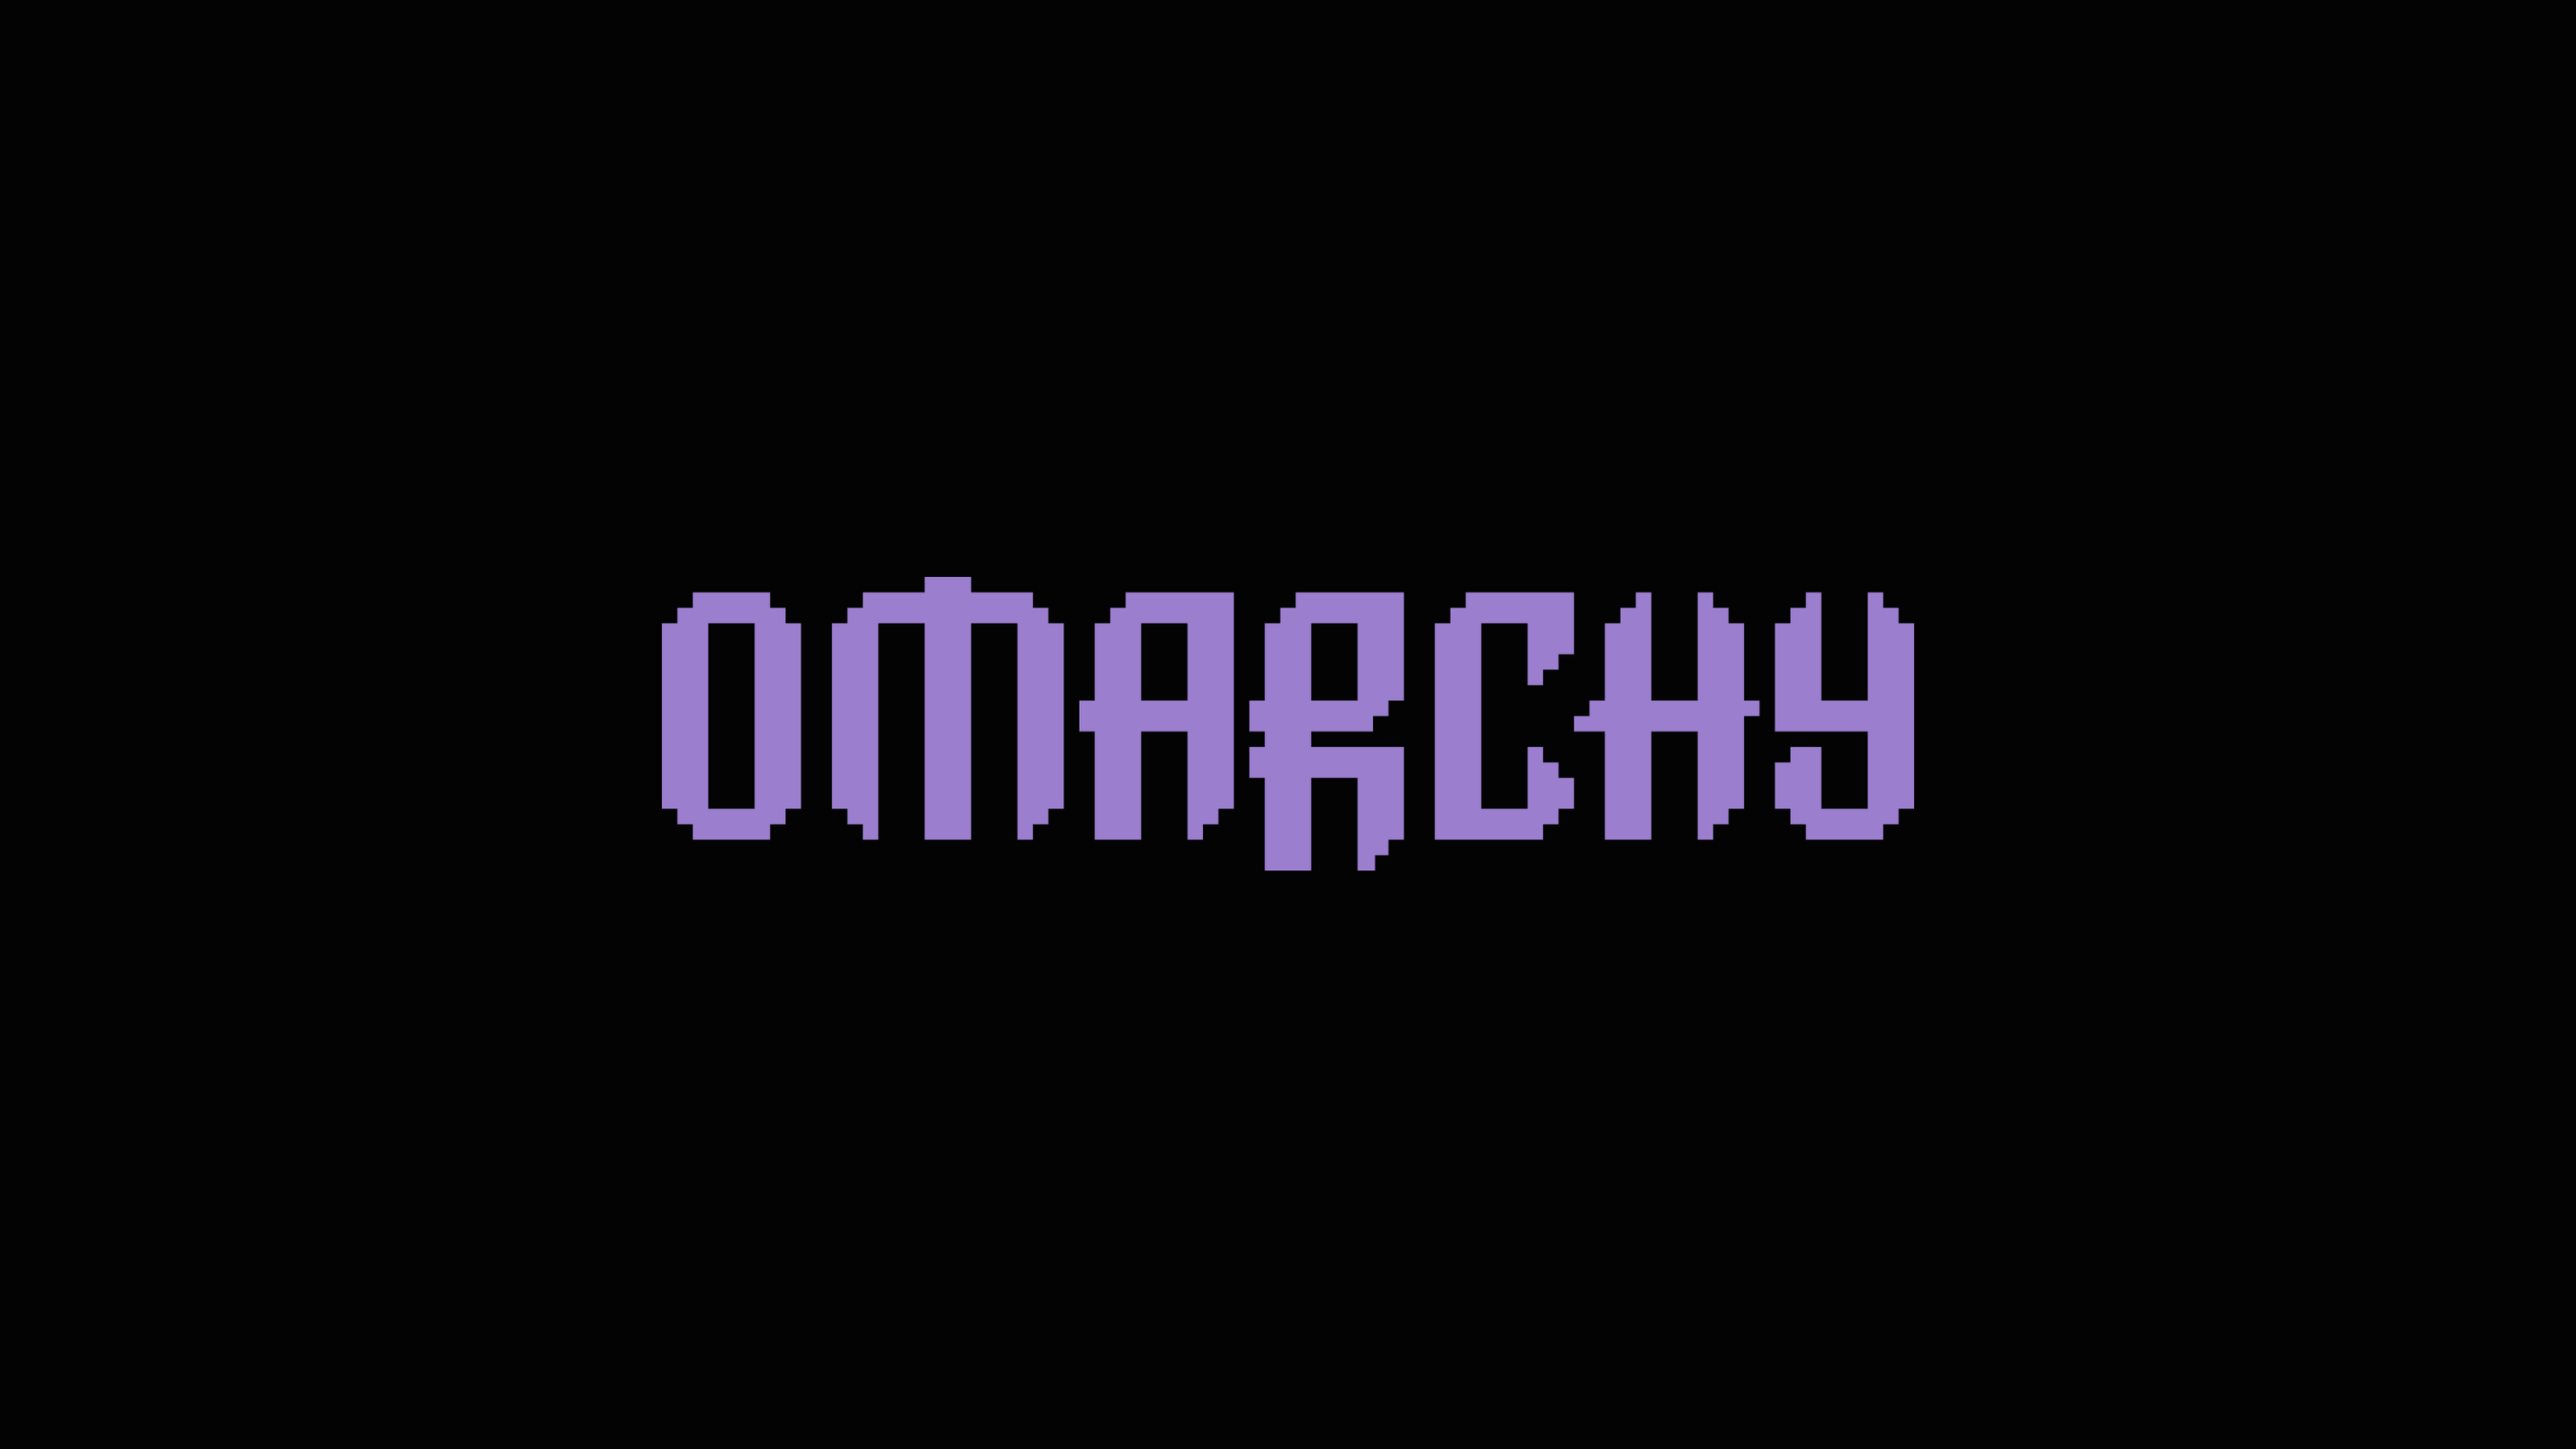
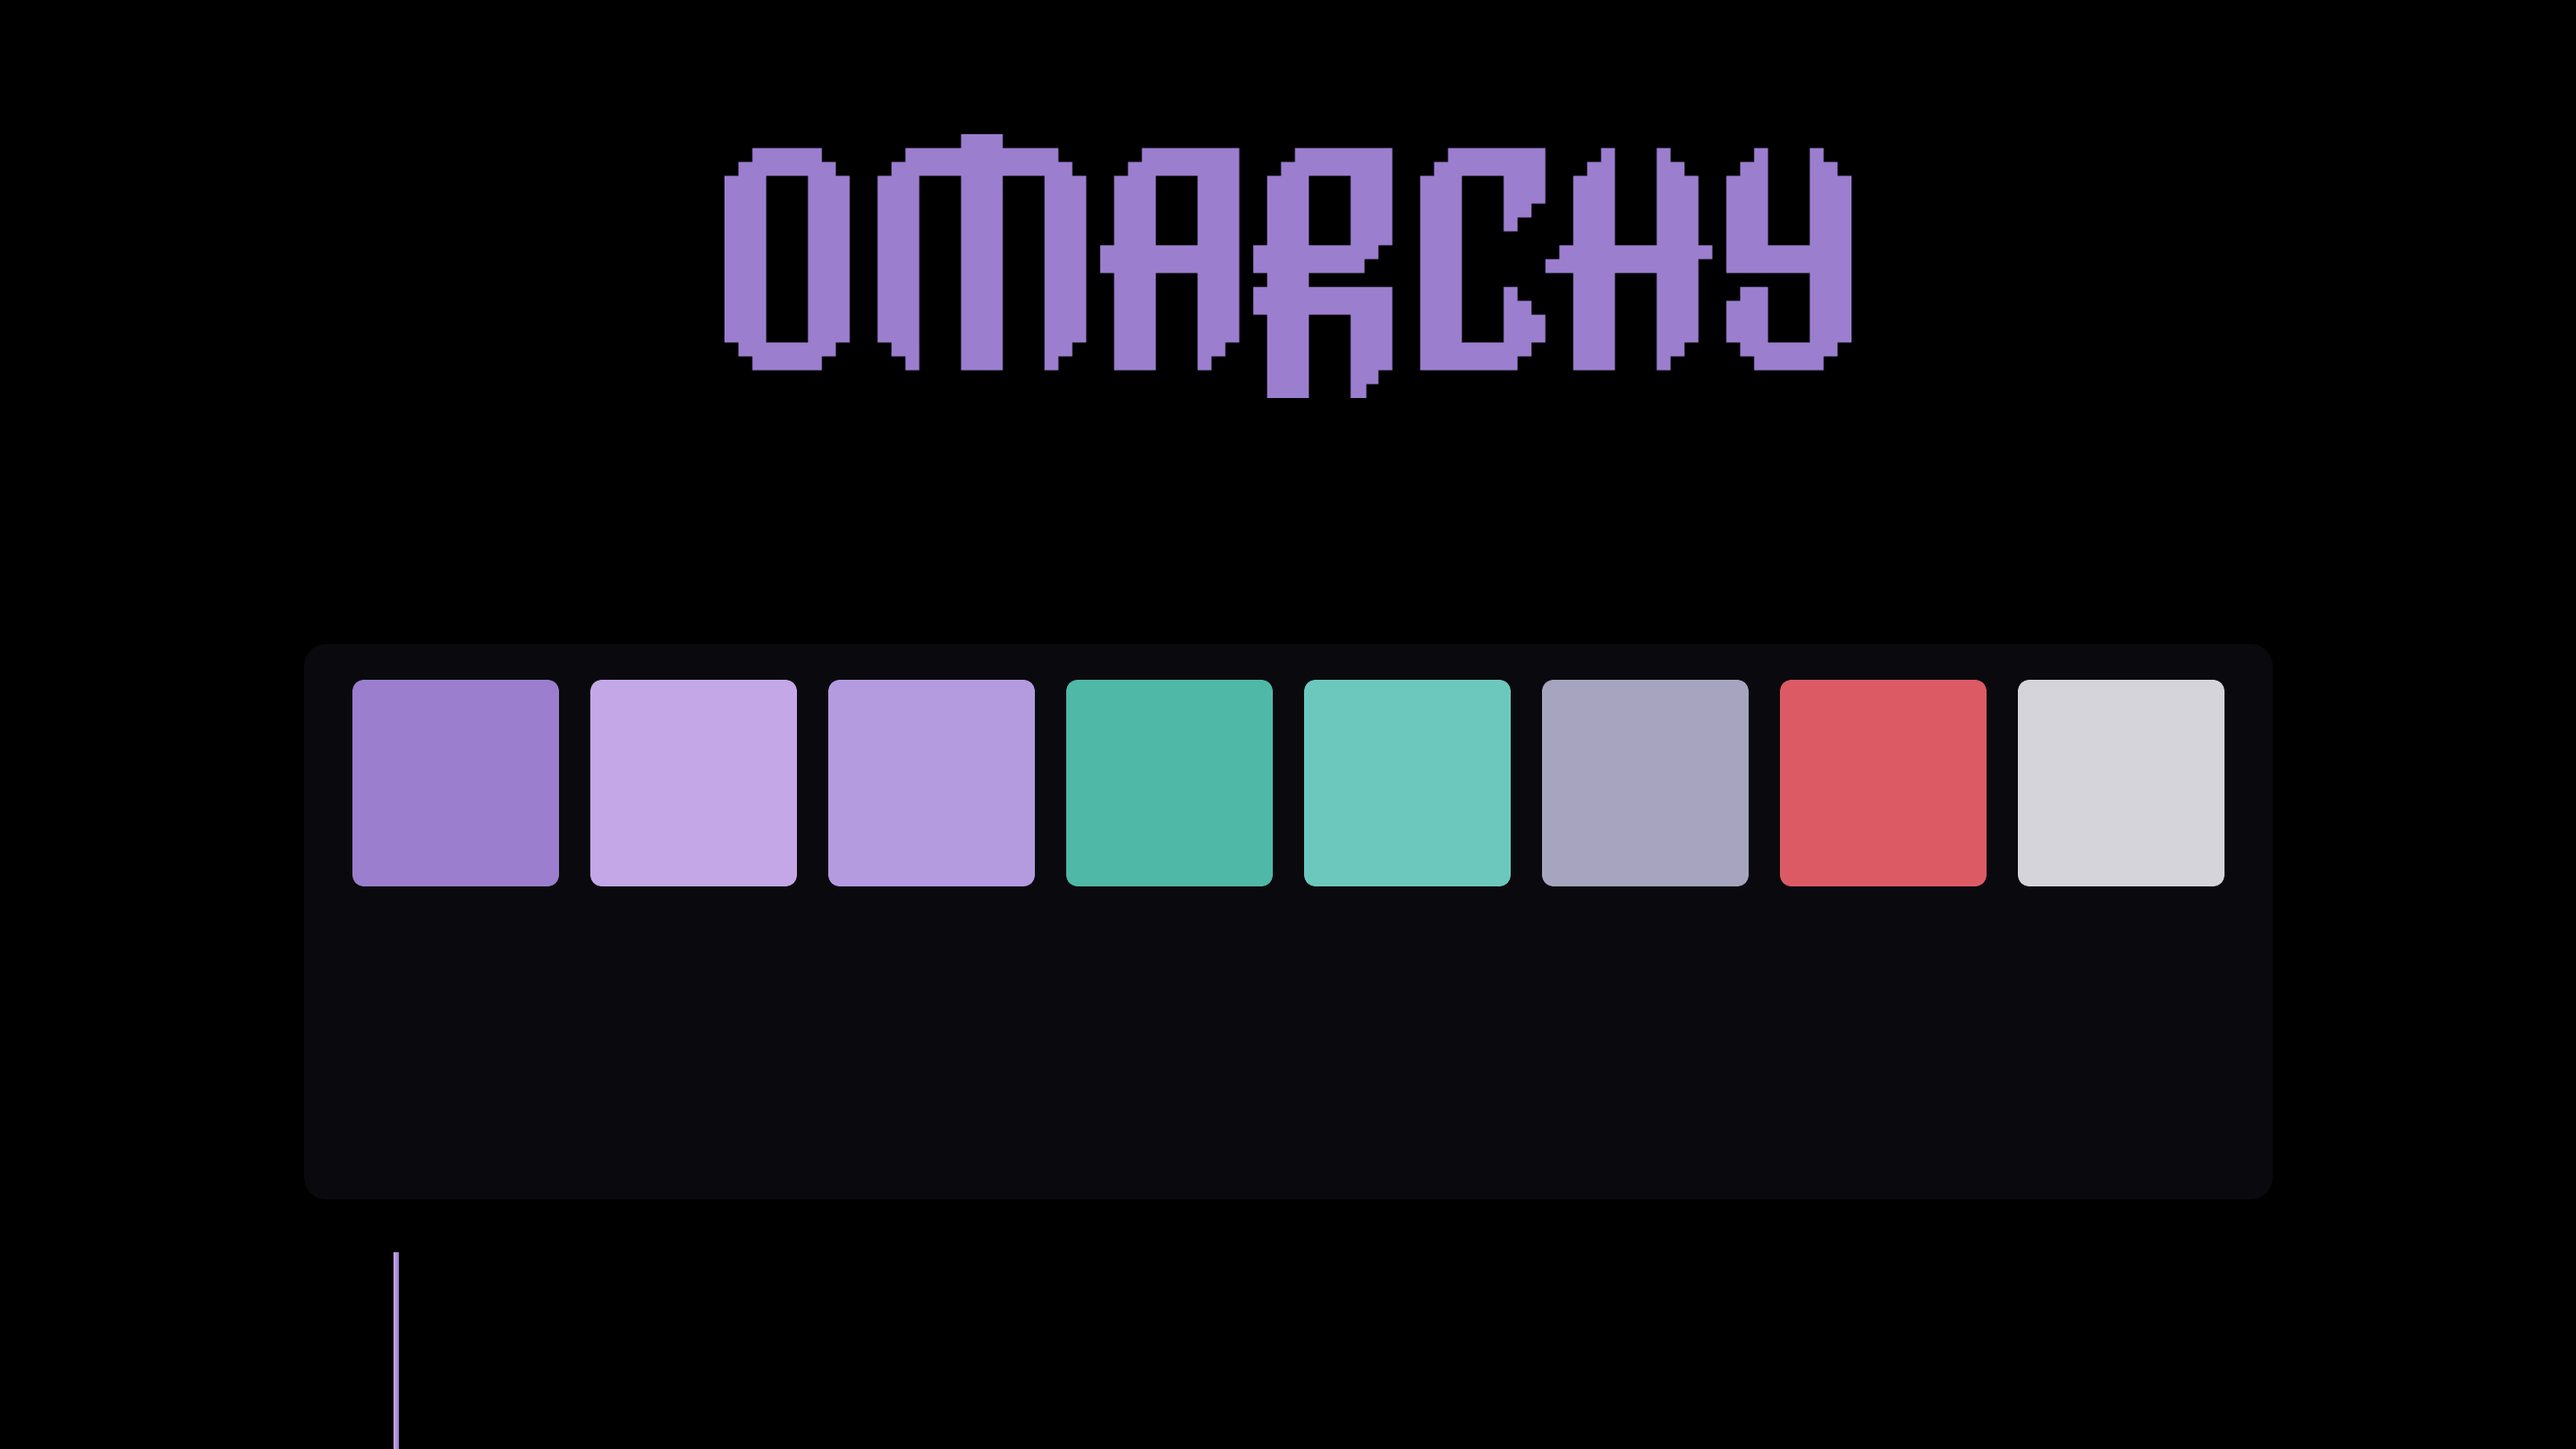
Regenerate wordmark and preview on the void palette; tint slate toward purple

Changed region(s): [[0.125, 0.4012, 0.875, 0.6173], [0.2812, 0.0926, 0.7188, 0.2778]]

diff --git a/README.md b/README.md
@@ -21,7 +21,7 @@ The repo name follows Omarchy’s `omarchy-[name]-theme` convention, so it appea
 | Lavender | `#C4A7E7` | Bright purple (blue family) |
 | Magenta | `#B49BE0` | Purple family |
 | Teal | `#4FB8A6` | Success and links (green/cyan family) |
-| Slate | `#9BA3B0` | Muted neutral (replaces cream/gold) |
+| Slate | `#A7A4C0` | Muted neutral (replaces cream/gold) |
 | Rose | `#DC5A64` | Errors |
 | Text | `#D4D4DA` | Primary |
 

diff --git a/CREDITS.md b/CREDITS.md
@@ -4,4 +4,4 @@ Theme files (palette, icons, configs) are MIT.
 
 ## Wordmark
 
-- **omarchy.png** — official Omarchy wordmark (`/usr/share/omarchy/logo.svg`) on `#030304` in accent `#9B7ECE`.
+- **omarchy.png** — official Omarchy wordmark (`/usr/share/omarchy/logo.svg`) on true black `#000000` in accent `#9B7ECE`.
